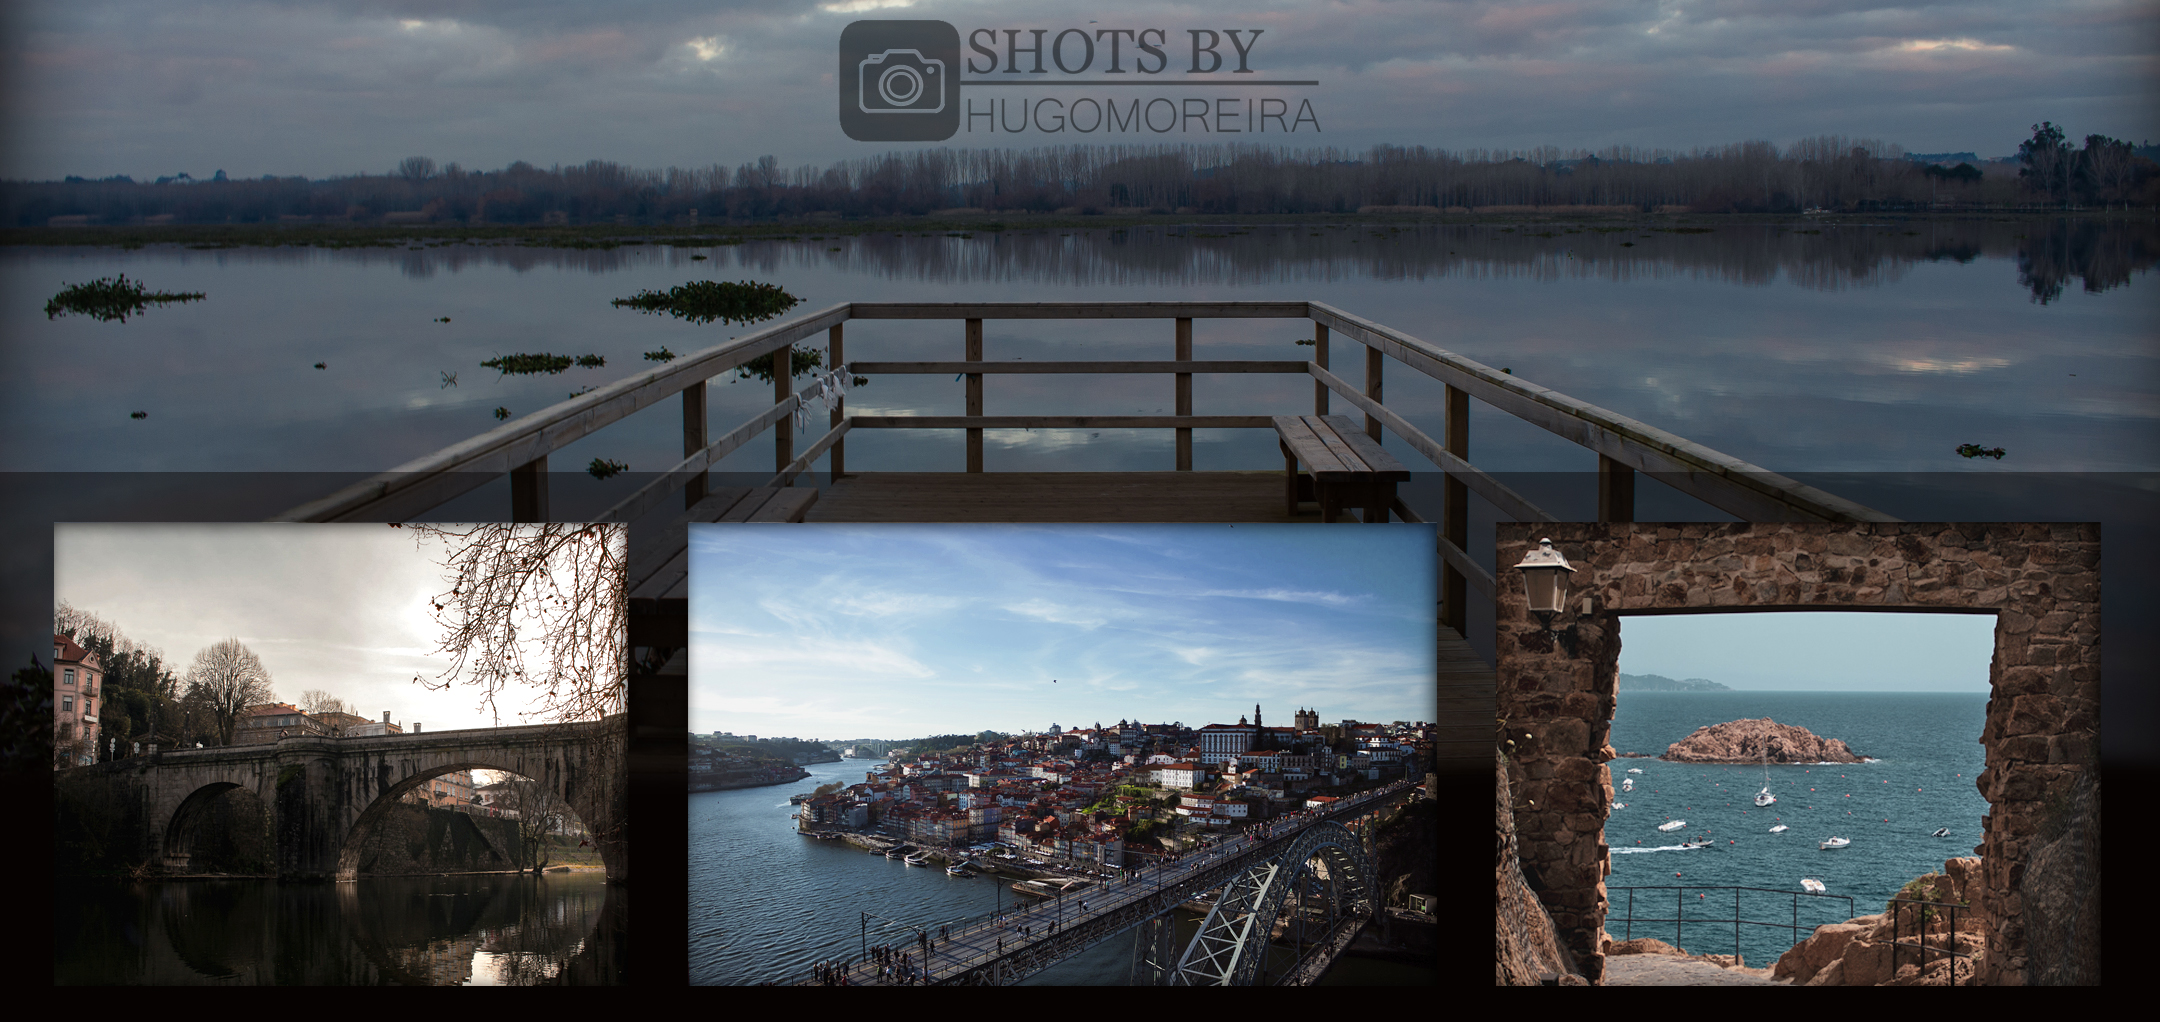
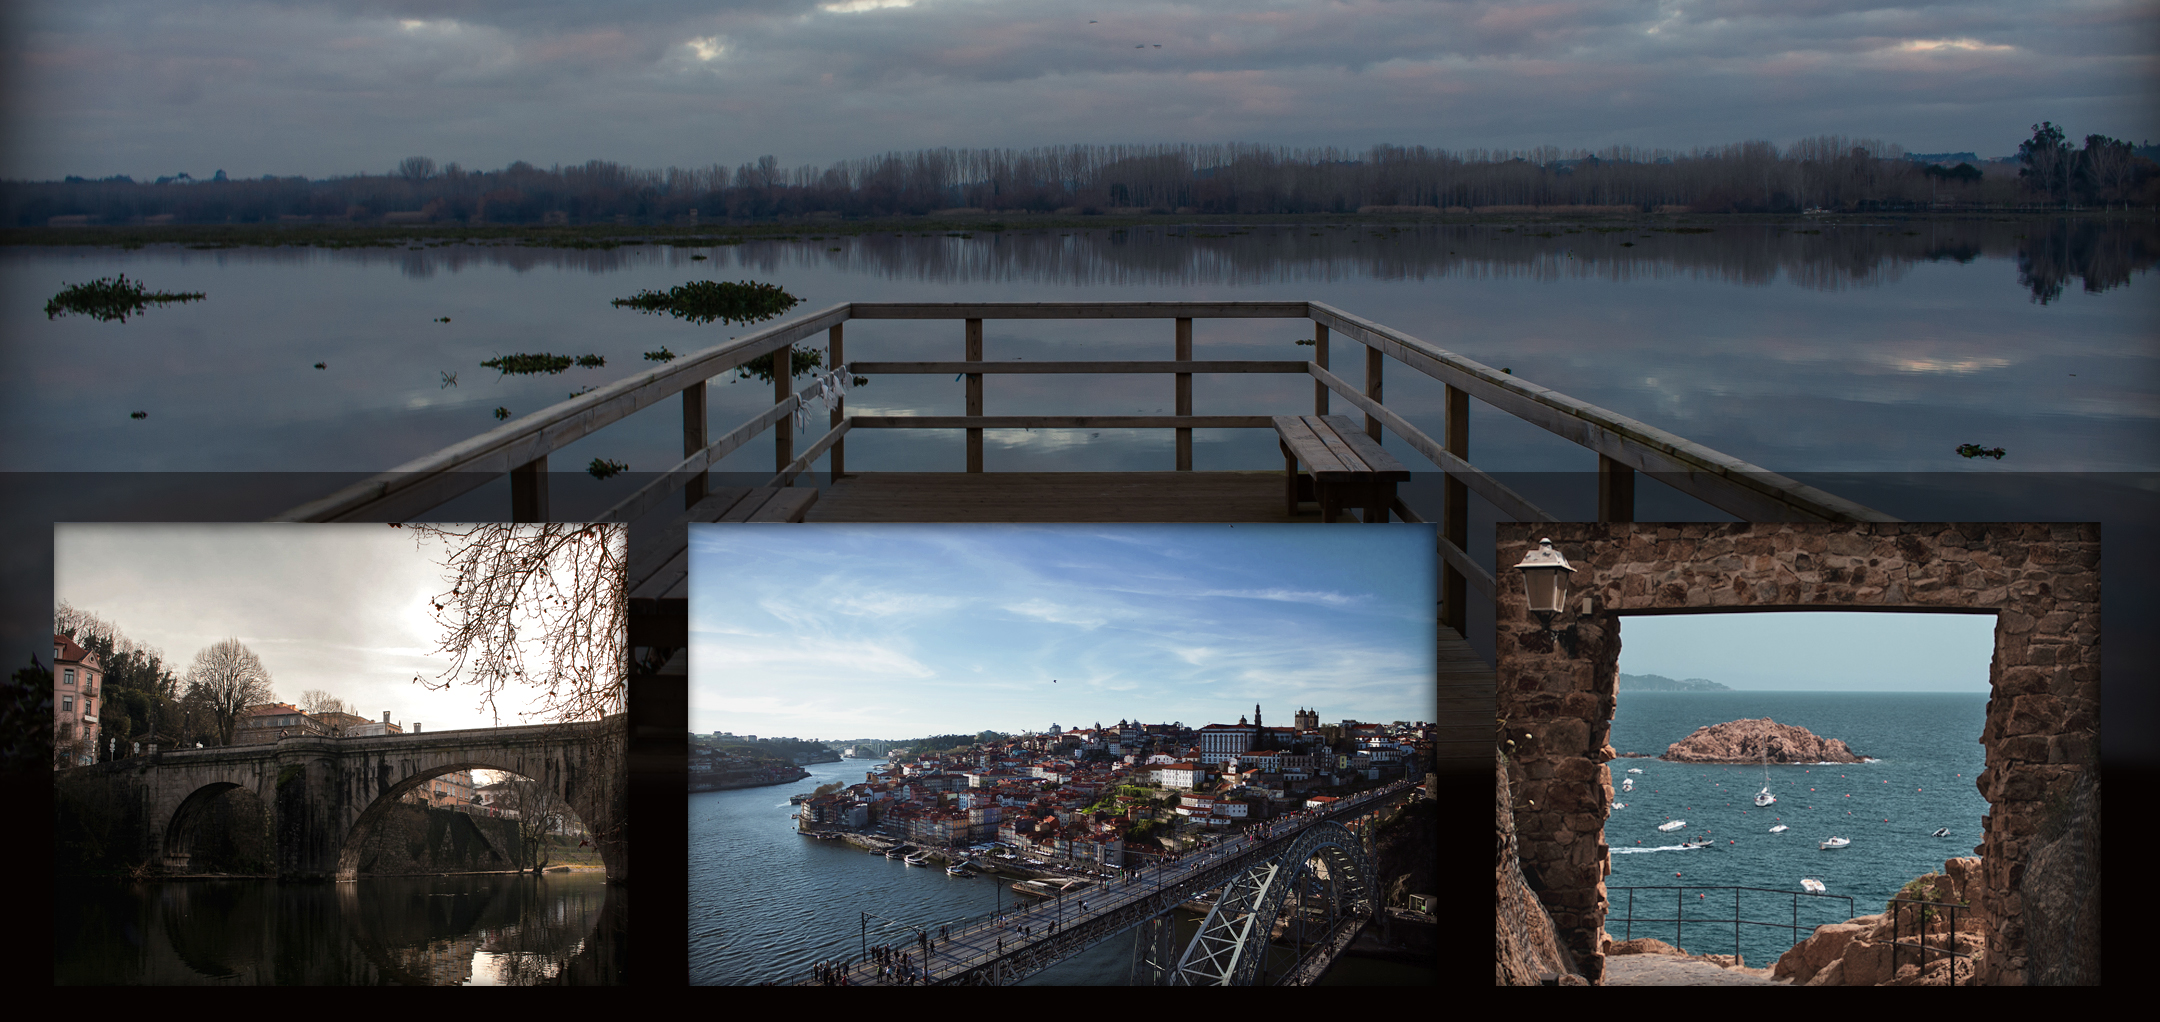
more ajustments for header and other pages

Changed region(s): [[0.3722, 0.0, 0.6204, 0.1517]]

diff --git a/src/components/Header.jsx b/src/components/Header.jsx
@@ -7,7 +7,6 @@ import {
   faUser,
   faMessage,
   faBars,
-  faTimes,
 } from "@fortawesome/free-solid-svg-icons";
 
 function Header() {
@@ -19,13 +18,13 @@ function Header() {
         <div className="text-white bg-cover bg-center">
           <Link href="/">
             <img
-              className="logo hidden md:block"
+              className="absolute h-[60px] w-[140px] top-0 left-0 z-50 md:h-[100px] md:w-[220px] md:top-0 md:left-0 cursor-pointer"
               src="src/assets/images/logo/logofinal.png"
               alt="logo"
             />
           </Link>
 
-          <nav className="hidden md:flex justify-end gap-16 p-7 list-none ">
+          <nav className="hidden md:flex justify-end gap-16 p-7 list-none">
             <li>
               <FontAwesomeIcon color="black" icon={faHouse} />
               <Link
@@ -74,36 +73,47 @@ function Header() {
               }`}
             >
               <FontAwesomeIcon
-                icon={isMenuOpen ? faTimes : faBars}
+                icon={faBars}
                 size="2xl"
                 className="text-black transition-colors duration-300 ease-in-out"
               />
             </button>
           </div>
-          
+
           {isMenuOpen && ( // ajust this in mobile later
-            <div 
+            <div
               className={`md:hidden fixed inset-0 bg-black bg-opacity-90 backdrop-blur-sm flex flex-col items-center justify-center p-4 transition-all duration-300 ease-in-out`}
-              style={{ zIndex: isMenuOpen ? '50' : '-1' }}
+              style={{ zIndex: isMenuOpen ? "50" : "-1" }}
             >
-              <div 
+              <div
                 style={{
-                  position: 'absolute',
-                  top: '45%',
-                  left: '44%',
-                  transform: 'translate(-70%, -70%)',
-                  width: '90vw',
-                  maxWidth: '400px',
-                  maxHeight: '90vh',
+                  position: "absolute",
+                  top: "45%",
+                  left: "44%",
+                  transform: "translate(-70%, -70%)",
+                  width: "90vw",
+                  maxWidth: "400px",
+                  maxHeight: "90vh",
                 }}
               >
                 <div className="bg-white rounded-lg shadow-xl transform-gpu transition-all duration-300 ease-in-out">
-                  <button 
-                    onClick={() => setIsMenuOpen(false)} 
+                  <button
+                    onClick={() => setIsMenuOpen(false)}
                     className="absolute top-4 right-4 text-gray-500 hover:text-gray-900"
                   >
-                    <svg xmlns="http://www.w3.org/2000/svg" className="h-8 w-8" fill="none" viewBox="0 0 24 24" stroke="currentColor">
-                      <path strokeLinecap="round" strokeLinejoin="round" strokeWidth={2} d="M6 18L18 6M6 6l12 12" />
+                    <svg
+                      xmlns="http://www.w3.org/2000/svg"
+                      className="h-8 w-8"
+                      fill="none"
+                      viewBox="0 0 24 24"
+                      stroke="currentColor"
+                    >
+                      <path
+                        strokeLinecap="round"
+                        strokeLinejoin="round"
+                        strokeWidth={2}
+                        d="M6 18L18 6M6 6l12 12"
+                      />
                     </svg>
                   </button>
                   <nav>
@@ -119,7 +129,11 @@ function Header() {
                         </Link>
                       </li>
                       <li>
-                        <FontAwesomeIcon color="black" icon={faLocationDot} size="lg" />
+                        <FontAwesomeIcon
+                          color="black"
+                          icon={faLocationDot}
+                          size="lg"
+                        />
                         <Link
                           className="text-gray-600 no-underline transition-colors duration-300 hover:text-black hover:underline ml-2"
                           onClick={() => setIsMenuOpen(false)}
@@ -129,7 +143,11 @@ function Header() {
                         </Link>
                       </li>
                       <li>
-                        <FontAwesomeIcon color="black" icon={faUser} size="lg" />
+                        <FontAwesomeIcon
+                          color="black"
+                          icon={faUser}
+                          size="lg"
+                        />
                         <Link
                           className="text-gray-600 no-underline transition-colors duration-300 hover:text-black hover:underline ml-2"
                           onClick={() => setIsMenuOpen(false)}
@@ -139,7 +157,11 @@ function Header() {
                         </Link>
                       </li>
                       <li>
-                        <FontAwesomeIcon color="black" icon={faMessage} size="lg" />
+                        <FontAwesomeIcon
+                          color="black"
+                          icon={faMessage}
+                          size="lg"
+                        />
                         <Link
                           className="text-gray-600 no-underline transition-colors duration-300 hover:text-black hover:underline ml-2"
                           onClick={() => setIsMenuOpen(false)}

diff --git a/src/views/HomeView.jsx b/src/views/HomeView.jsx
@@ -23,7 +23,7 @@ function HomeView() {
           <img src="src/assets/images/banner/Banner.jpg" alt="main-banner" />
         </div>
       </article>
-      <h2 className="text-5xl text-center font-black mt-10 mb-[-30px] ">
+      <h2 className="text-5xl text-center underline font-black mt-10 mb-[-30px] ">
         Recent Work
       </h2>
       <section className="flex justify-center mb-0 mt-0">
@@ -48,10 +48,10 @@ function HomeView() {
   )}
 </section>
 
-      <h2 className="text-5xl text-center font-black mt-10">
+      <h2 className="text-5xl text-center underline font-black mt-10 mb-[-20]">
         Visited Locations
       </h2>
-      <section className="globe-section">
+      <section className="globe-section mb-[-20]">
         <div className="globe-container">
           <LocationsGlobe />
         </div>

diff --git a/src/index.css b/src/index.css
@@ -1,6 +1,6 @@
-@tailwind base;
-@tailwind components;
-@tailwind utilities;
+@import "tailwindcss/base";
+@import "tailwindcss/components";
+@import "tailwindcss/utilities";
 
 body{
   font-family: Spinnaker, 'Times New Roman', Times, serif;
@@ -20,16 +20,9 @@ body{
   margin-right: auto;
 }
 
-.logo{
-  width: 220px;
-  height: 100px;
-  position: absolute;
-  cursor: pointer;
-}
-
 .Main-banner {
   display: flex;
-  margin-top: 10px;
+  margin-top: 30px;
   justify-content: center;
   align-items: center;
   padding: 30px;

diff --git a/src/views/LocationDetailView.jsx b/src/views/LocationDetailView.jsx
@@ -53,7 +53,7 @@ function LocationDetailView() {
       <section className="mt-[30px]">
         <div className="text-3xl text-center font-bold mb-8 sm:mb-16">
           <h1 className="text-xl sm:text-3xl">{city.country}</h1>
-          <h1 className="text-2xl sm:text-4xl">{city.city}</h1>
+          <h1 className="text-2xl underline sm:text-4xl">{city.city}</h1>
           <p className="text-lg sm:text-xl">{city.arrivalDate}</p>
         </div>
         <div className="p-5">

diff --git a/src/App.jsx b/src/App.jsx
@@ -35,6 +35,6 @@ function App() {
 
 export default App;
 
-//TODO:  // parallax for main banner // ajust main banner and header logo fix swipper bug when resizing and in porto images~
+//TODO: // fix swipper bug when resizing and in porto images
 //  // fix prop warning fix home and about me page in mobile //fix resolution on swiper images 
 
